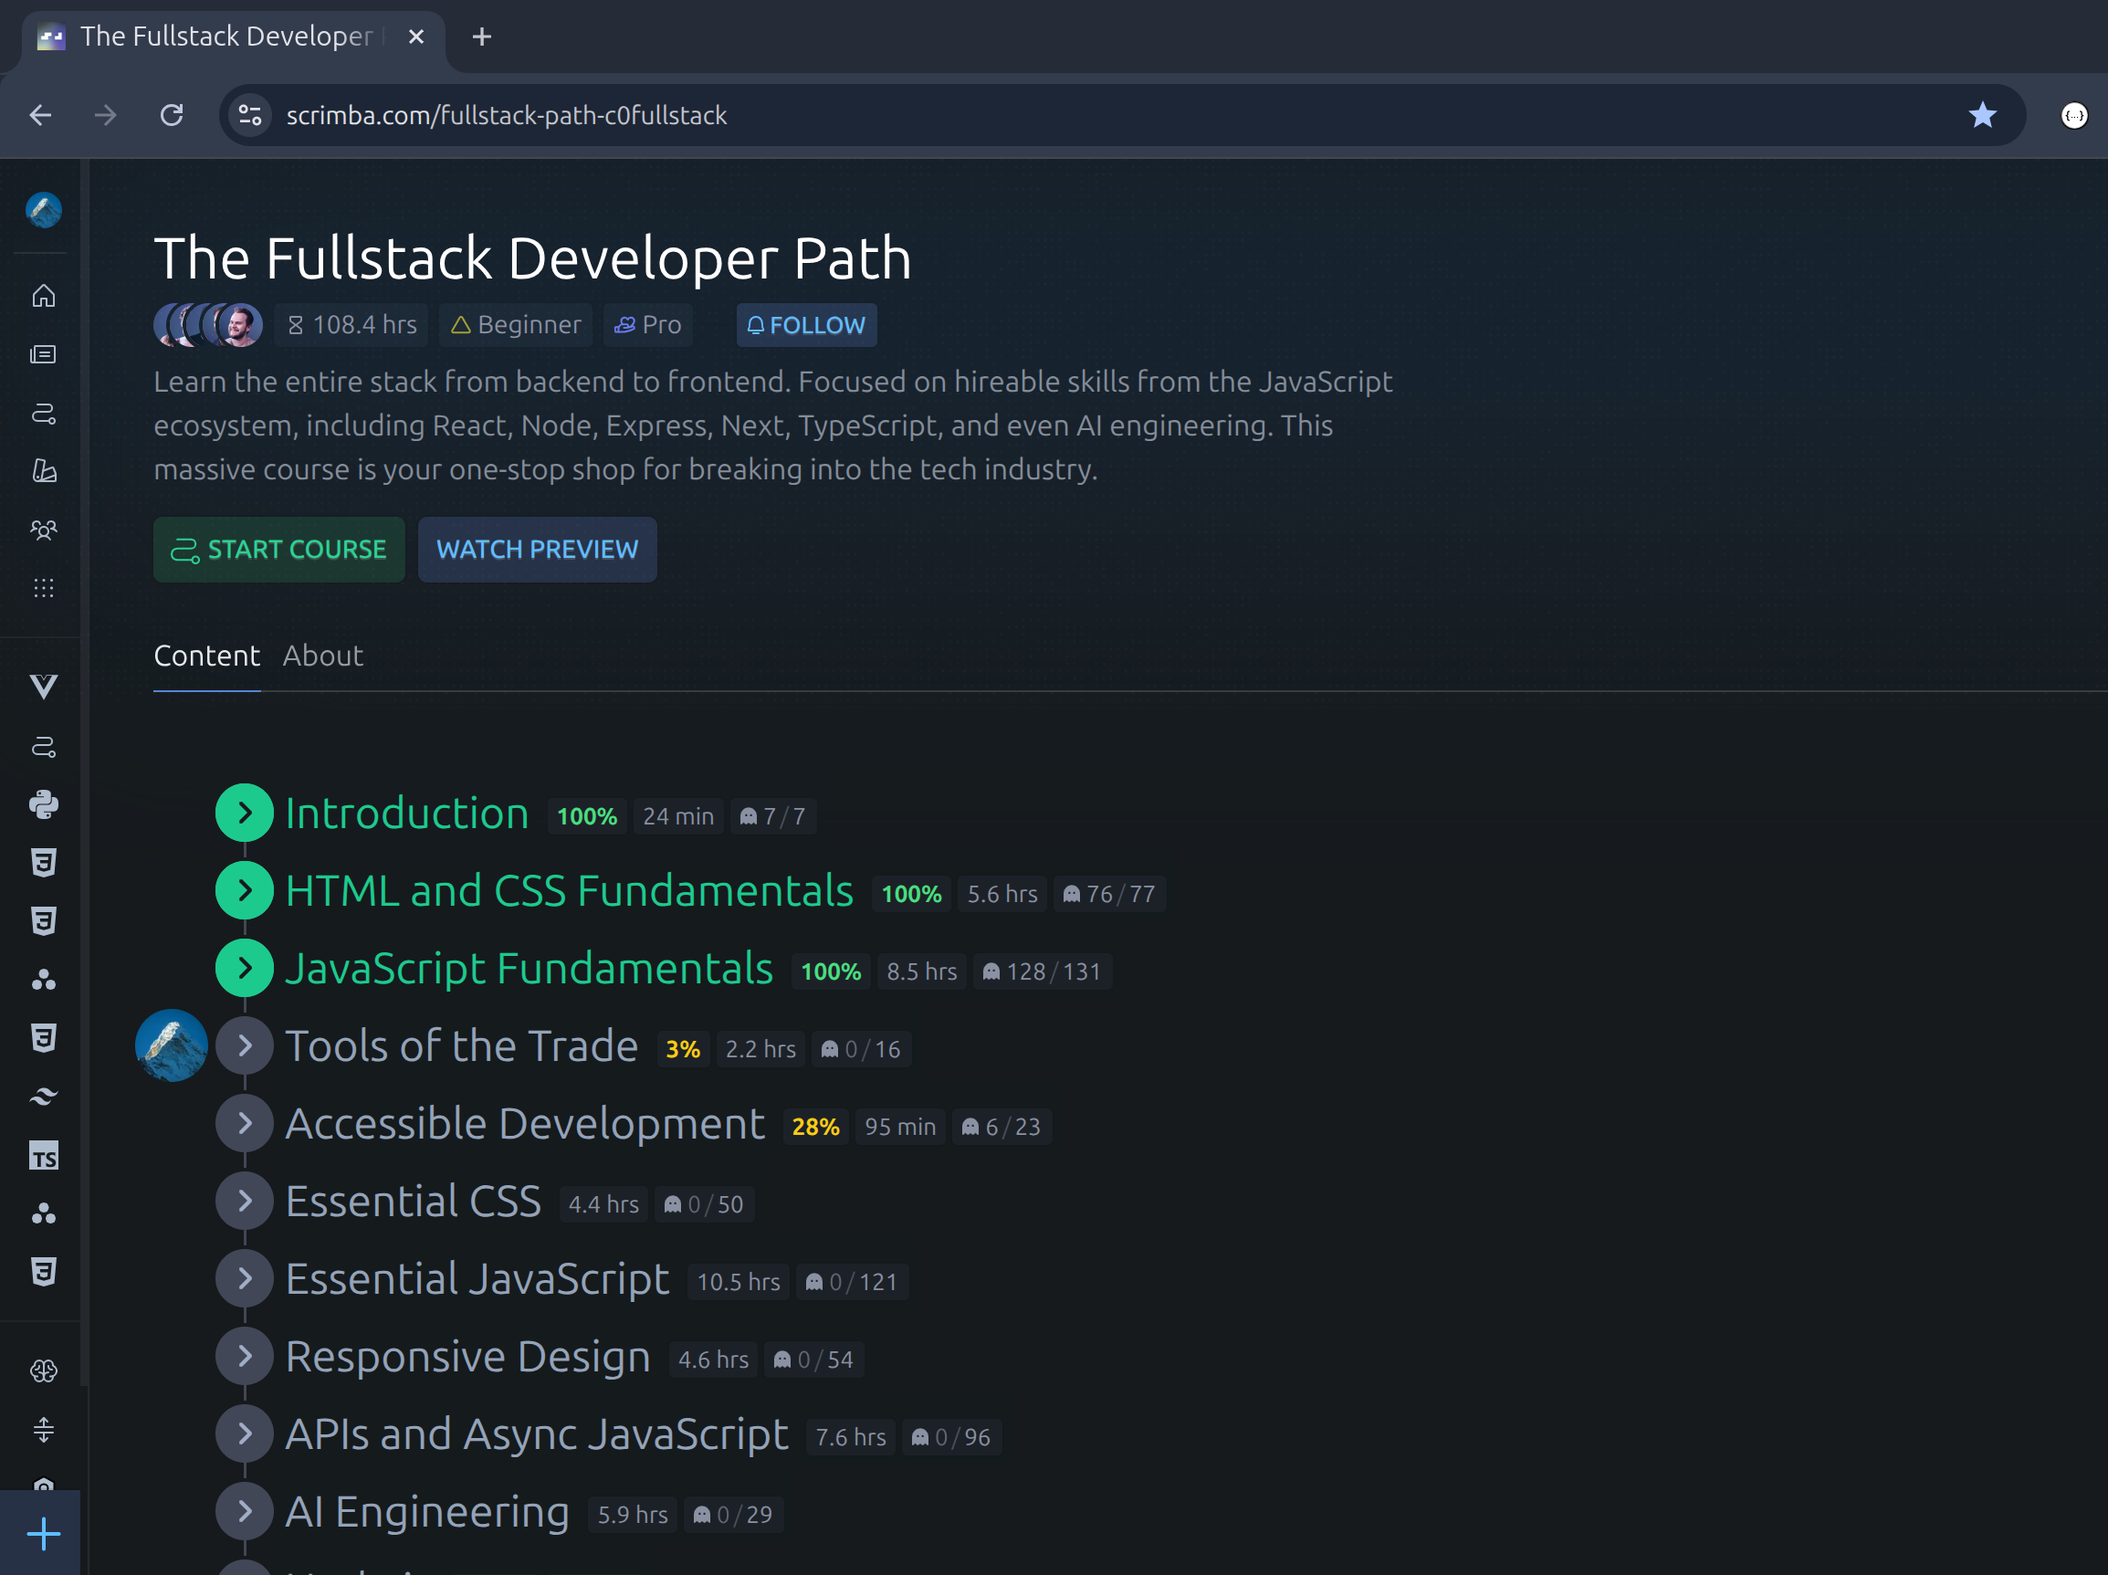
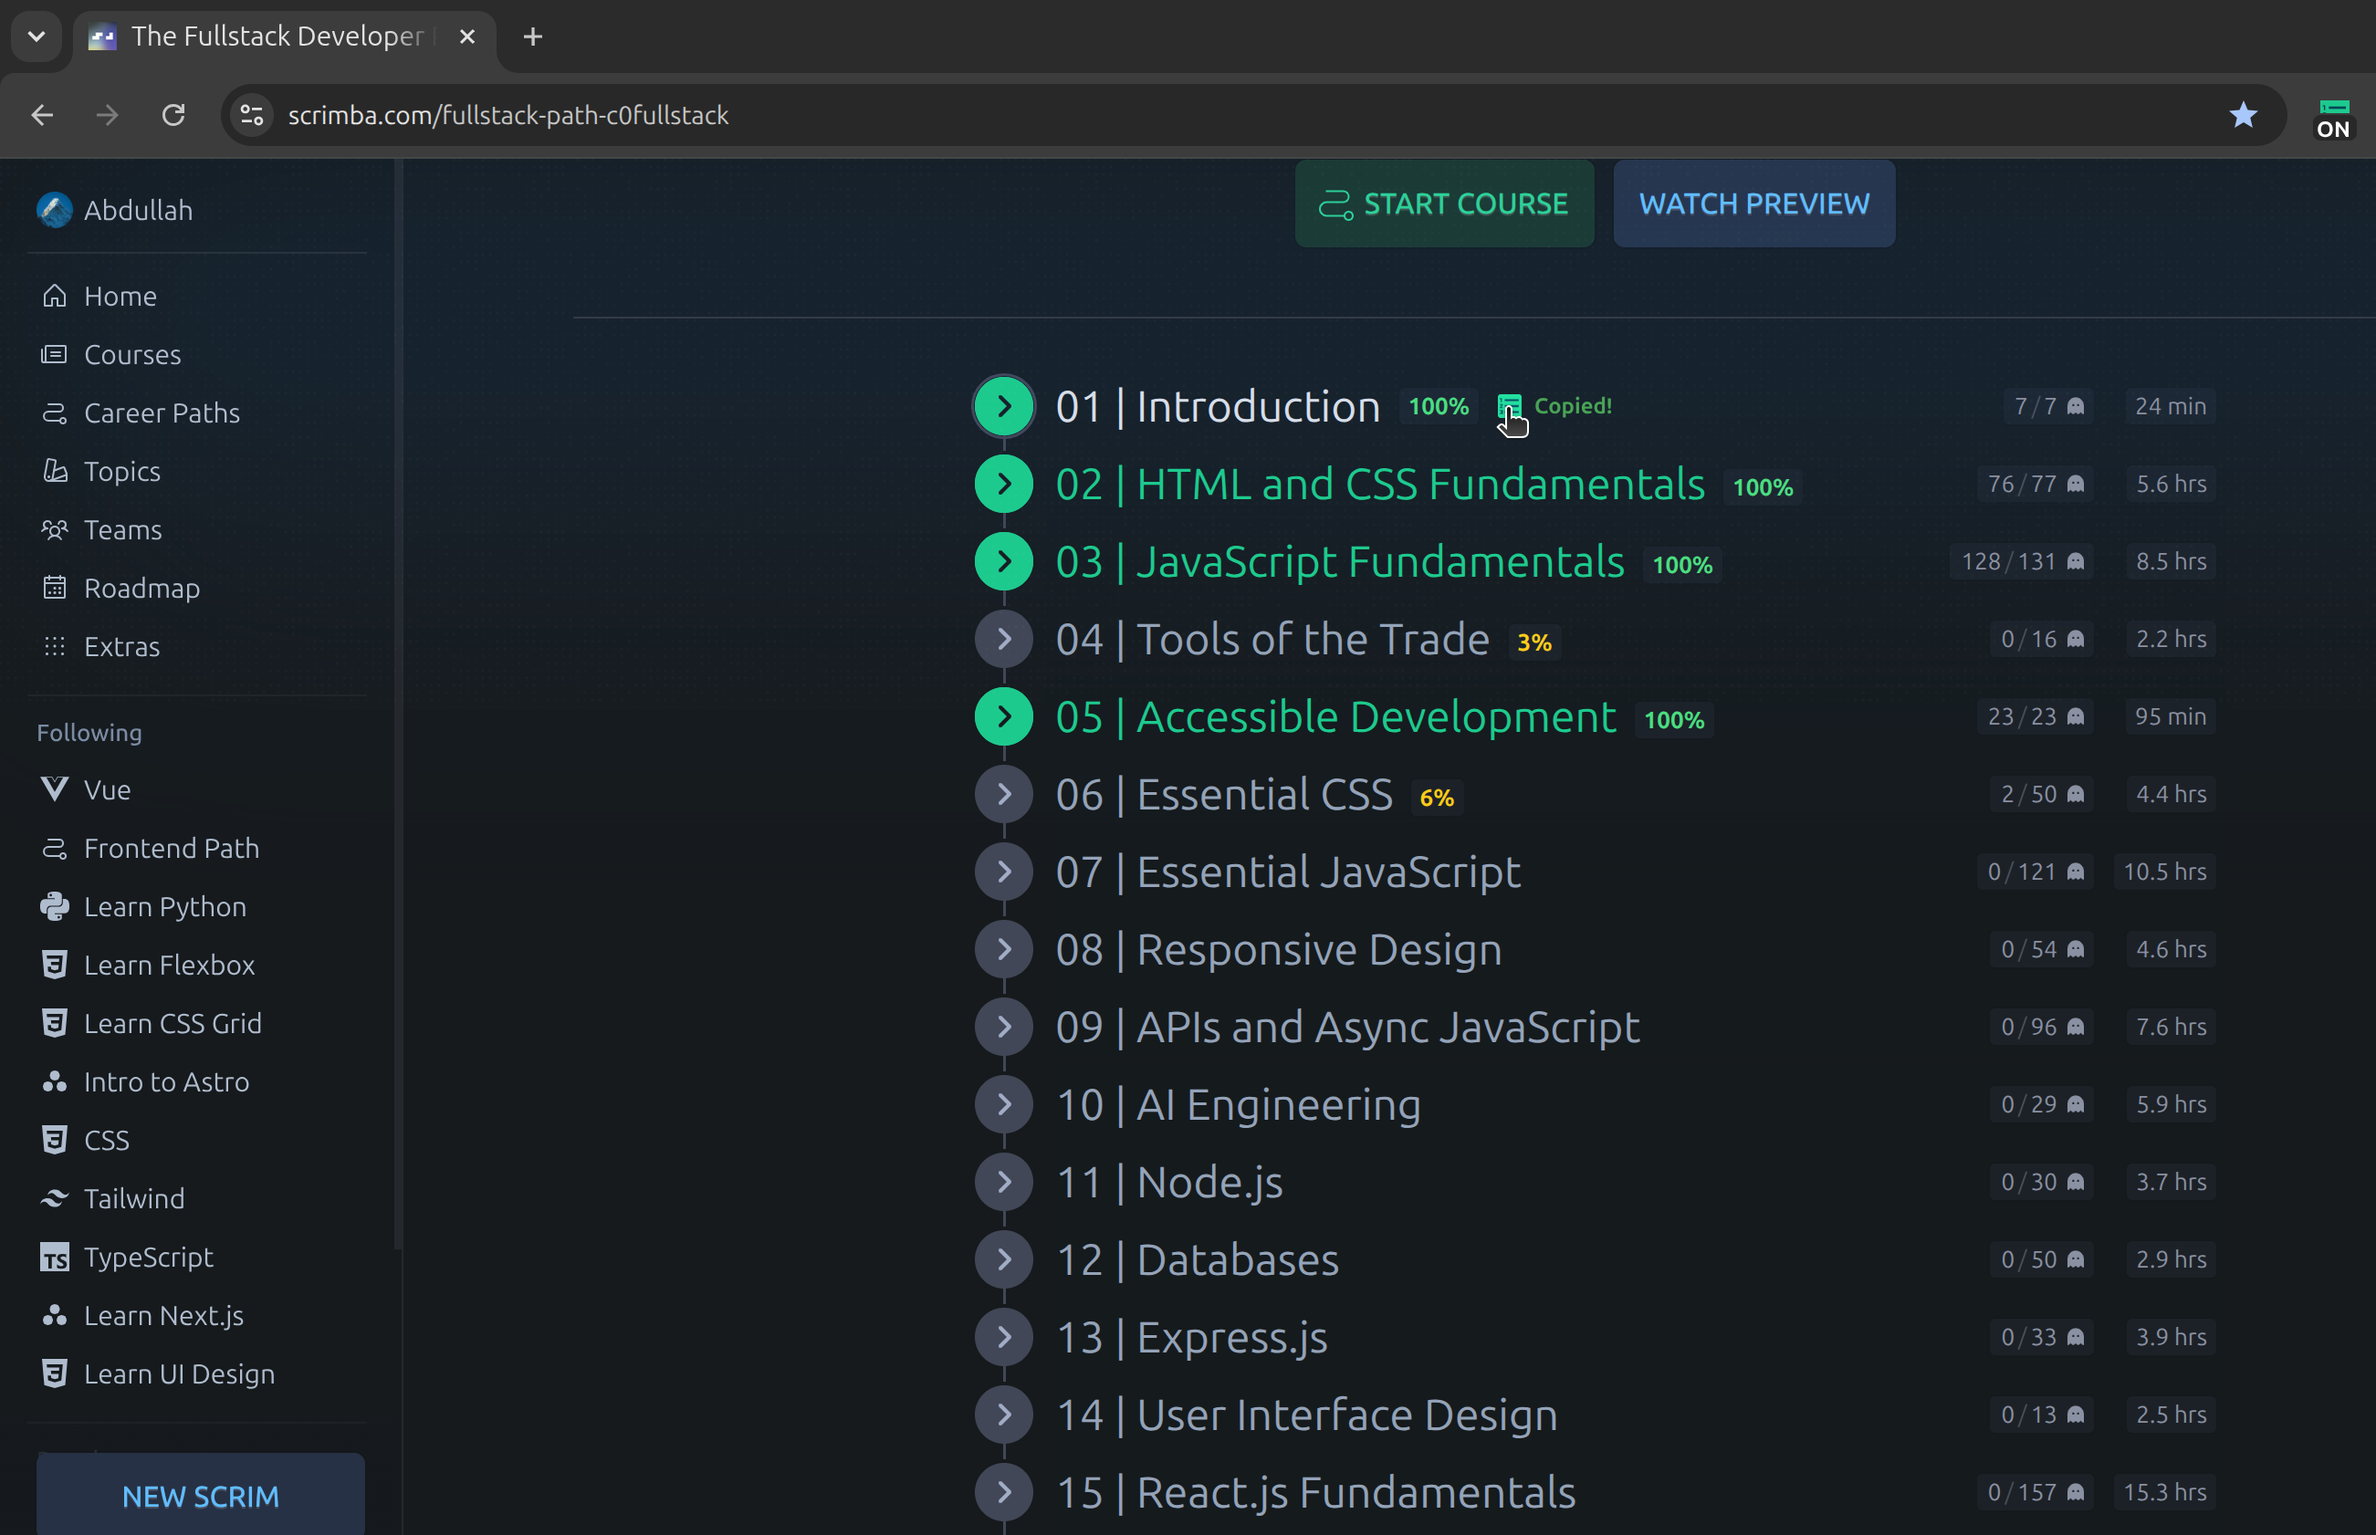
media/: Updated to reflect latest version.

diff --git a/README.md b/README.md
@@ -28,7 +28,7 @@ Clicking on the icon will toggle the active status of the extension.
 
 When the extension is active, the icon displays <img src="media/icon_on.png" width="35px" height="35px" align="top" alt="ScrimList icon with ON text."> and the lessons will be numbered.
 
-![Activated Example](media/ScrimbaFullStack-a2.png)
+![Activated Example](media/ScrimbaFullStack-a3.png)
 
 In case, they do not appear, try reloading the page.
 
